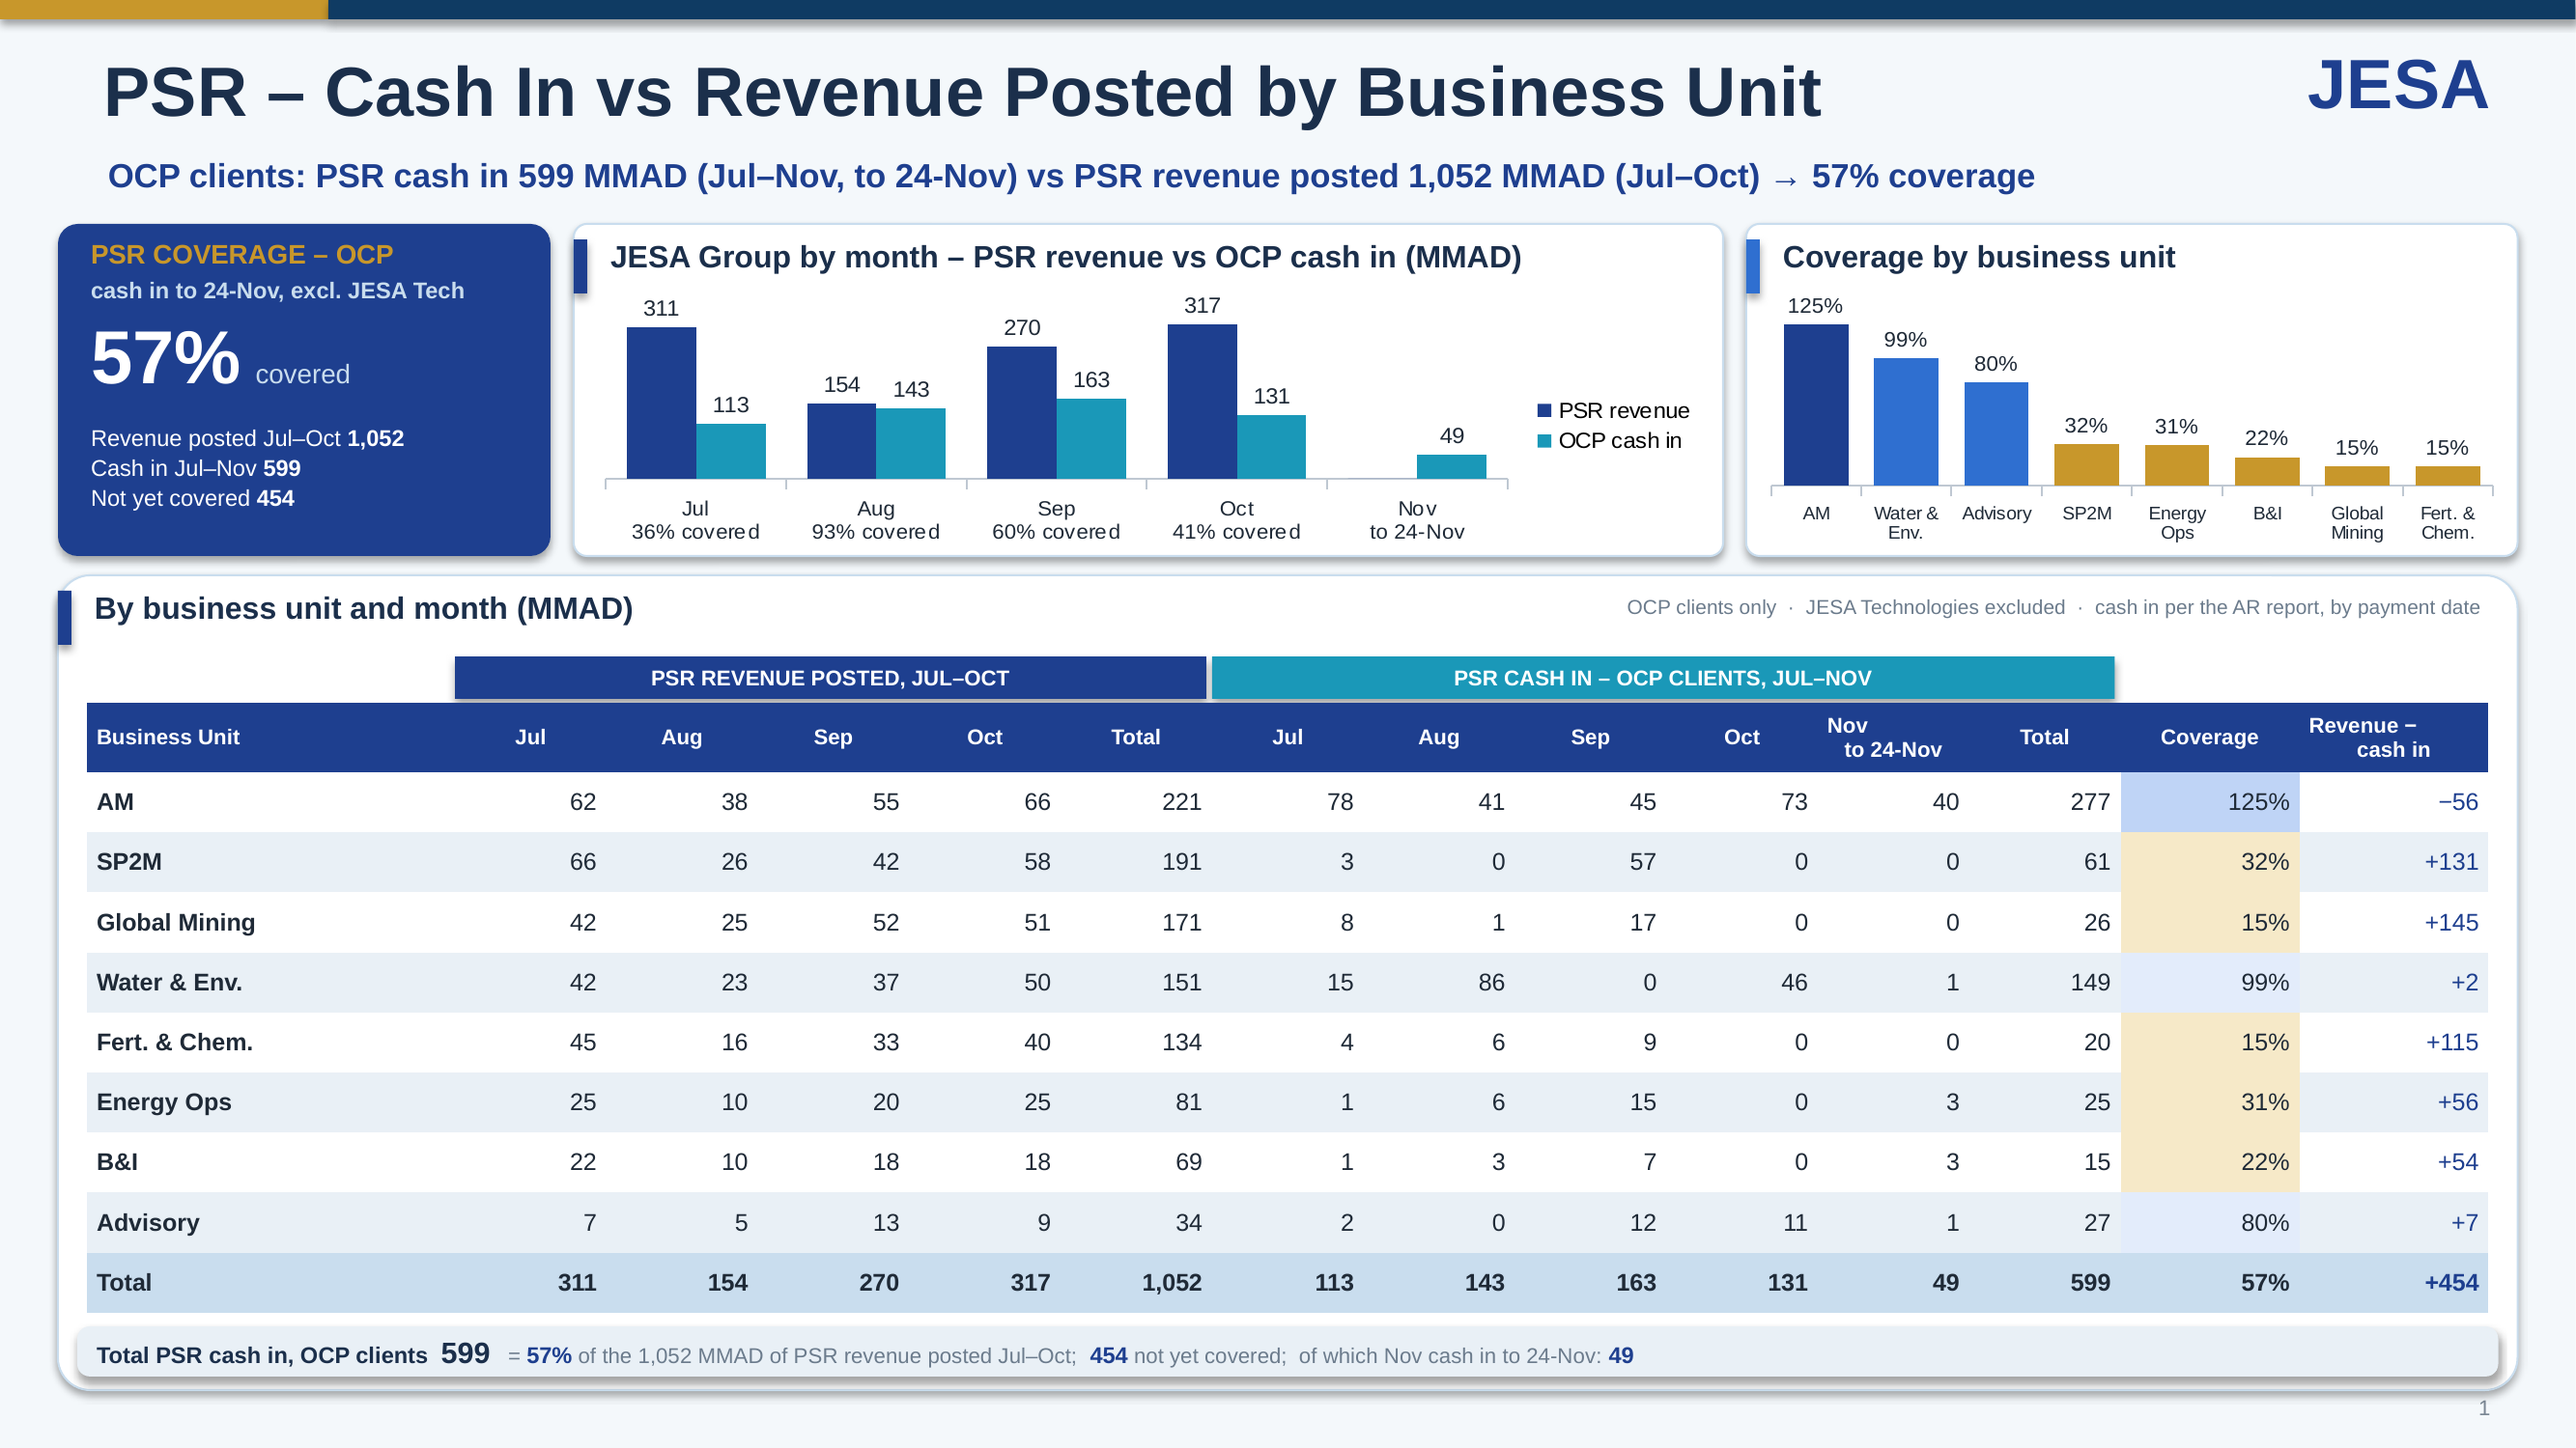
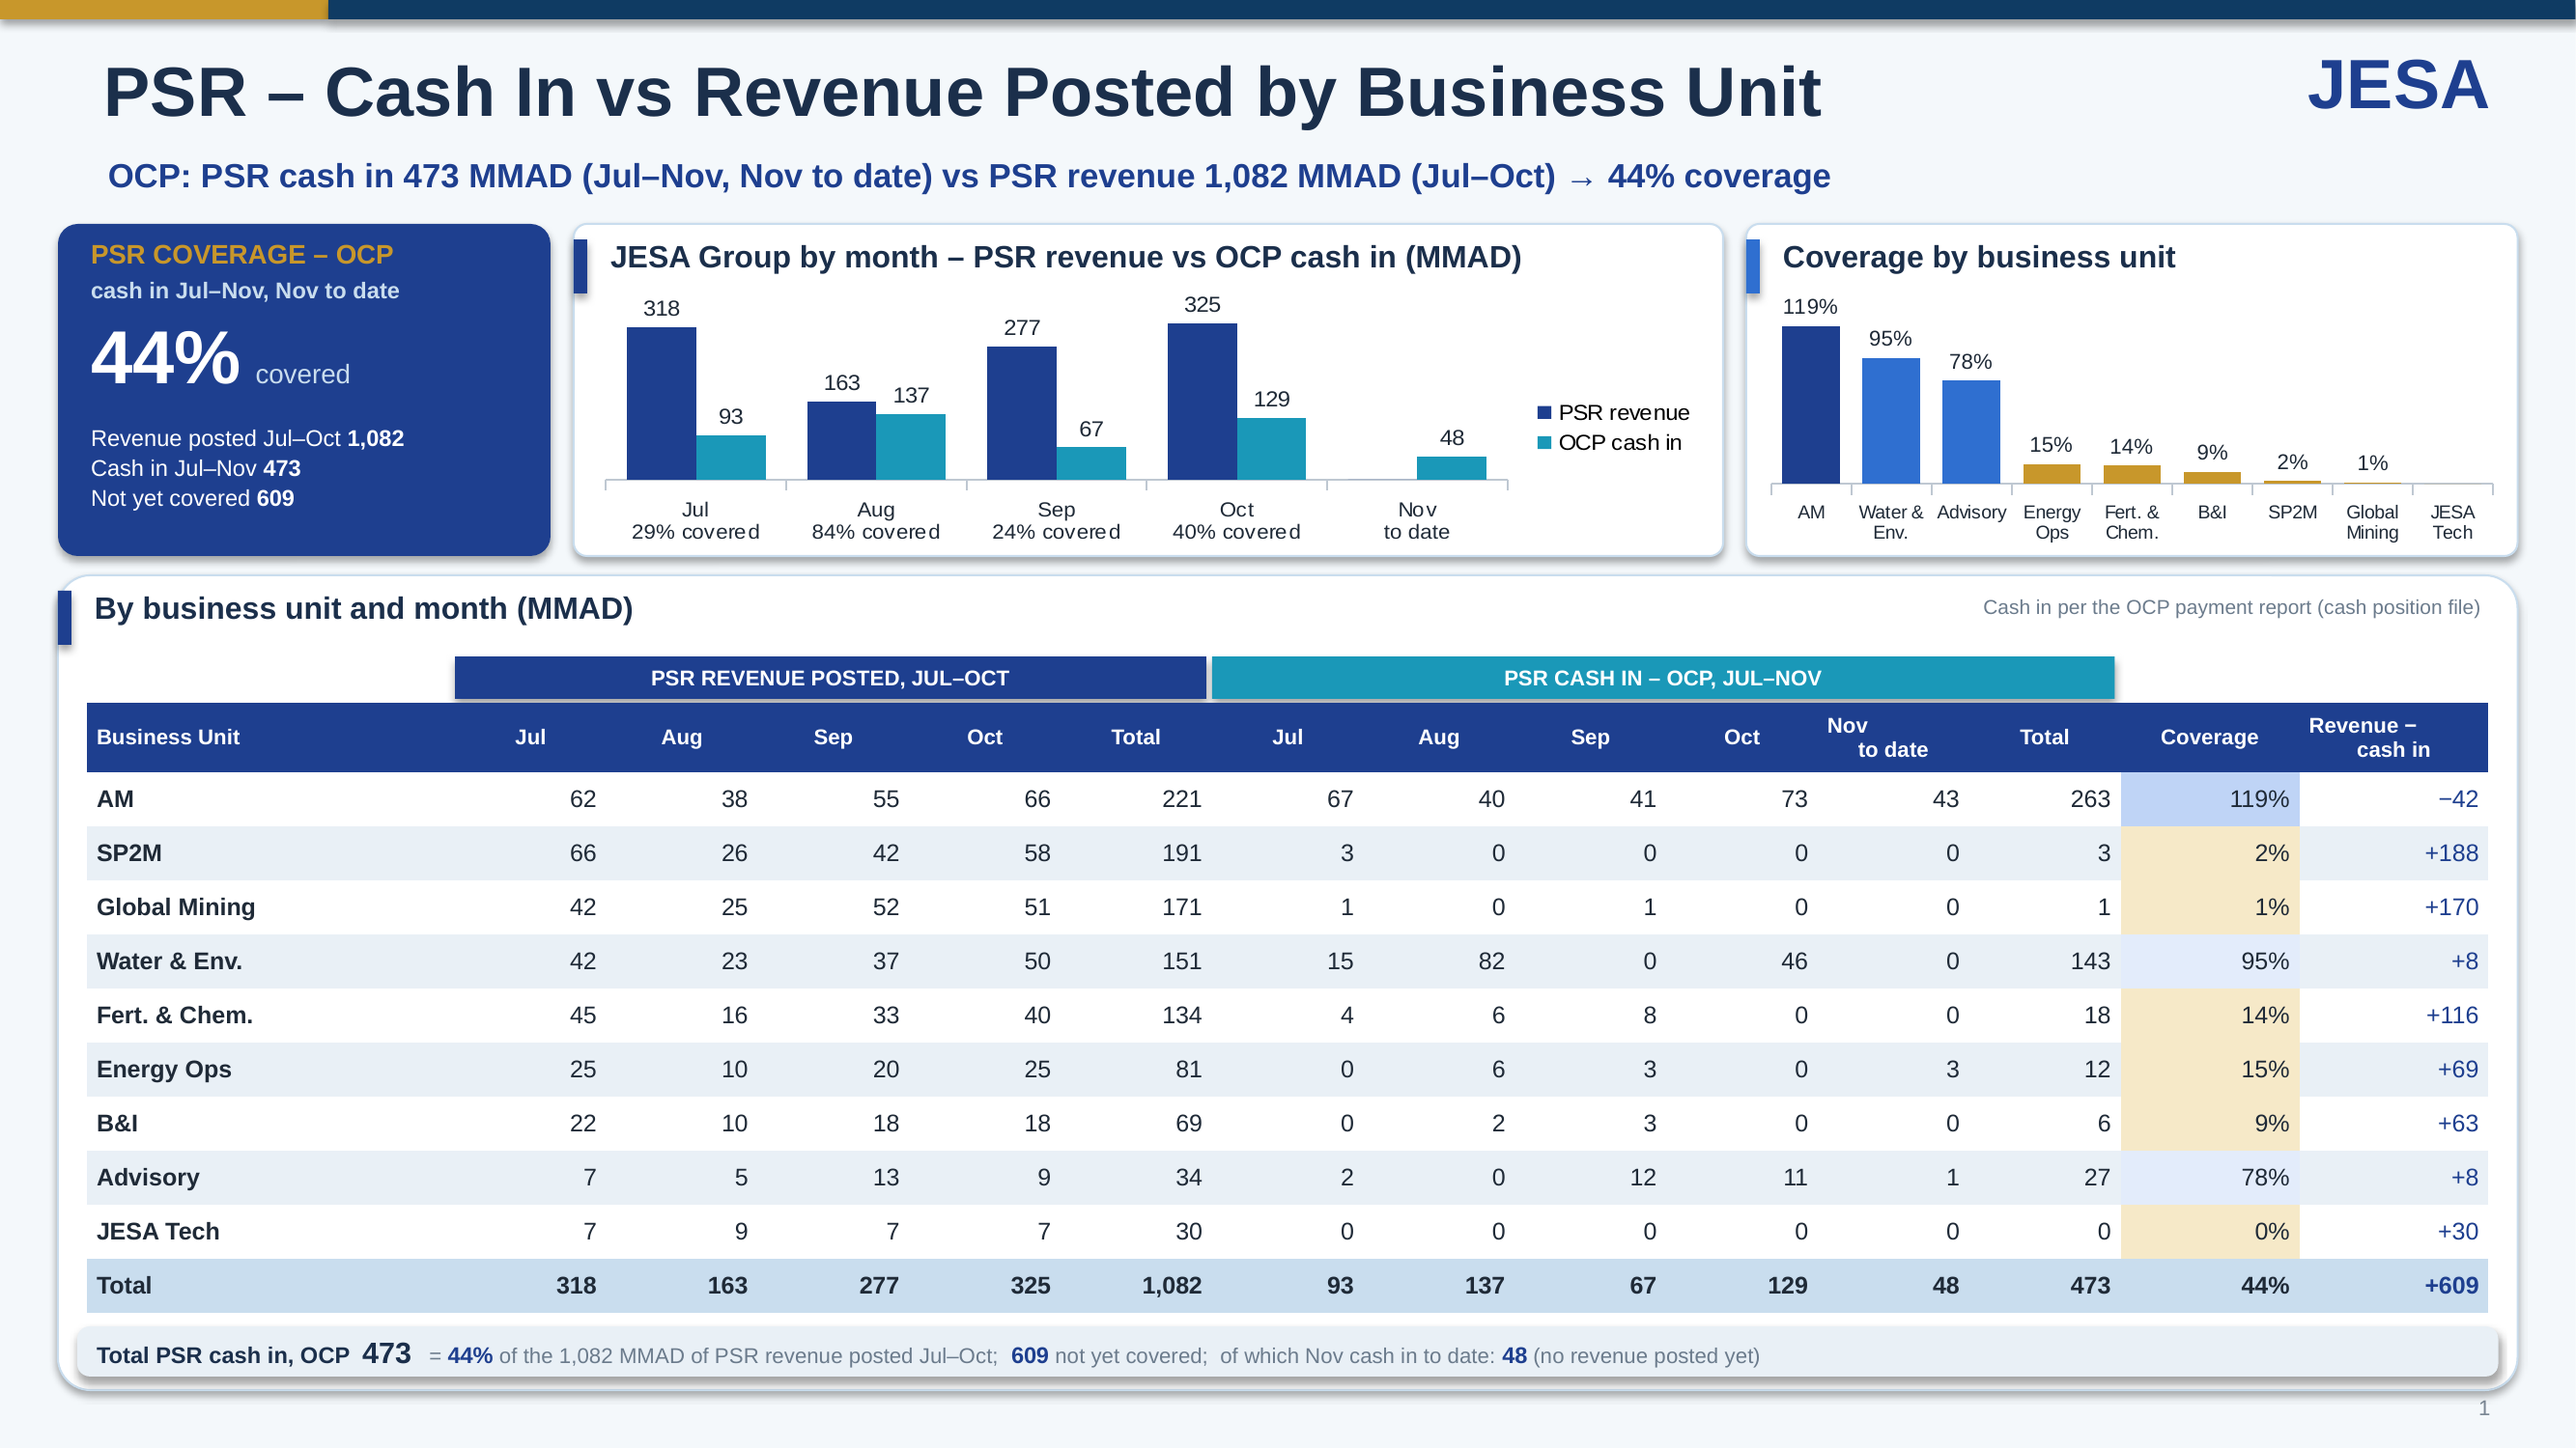
PSR coverage slide (OCP): cash in per the cash position file, JESA Technologies included
Claude-Session: https://claude.ai/code/session_01GRGYp2p9fdXmxQMcLgyM1e

diff --git a/weekly-ar-cash-deck/build_deck.py b/weekly-ar-cash-deck/build_deck.py
@@ -1700,9 +1700,9 @@ def build(data, meta, out):
             _ra = sum((pcat.get(k) or {}).get("amount") or 0 for k in ("refusing", "at_risk")); _rx = sum((pcat.get(k) or {}).get("amount_excl") or 0 for k in ("refusing", "at_risk"))
             total_strip(bxb, by2, bw_, bh2, "Refusing + at risk", f1(_ra), [("= ", {}), B(f1(_rx), JB), (" in the critical invoices + ", {}), B(f1(_ra - _rx), JB), (" under factoring or Tier 3", {})])
 
-    # ------------------------------------------------------------------ 13c. PSR cash in vs revenue posted, OCP clients only, without JESA Technologies (stand-alone, cash risks theme)
+    # ------------------------------------------------------------------ 13c. PSR cash in (OCP payment report, cash position file) vs revenue posted, all BUs (stand-alone, cash risks theme)
     D.section = "psr_ocp"
-    pco = [r for r in data.get("PSR_COVERAGE", []) if r.get("bu") != "JESA Technologies"]
+    pco = list(data.get("PSR_COVERAGE", []))
     if api and pco:
         def _mm(m): return dt.date.fromisoformat(str(m)[:7] + "-01").strftime("%b")
         pv = {(r["bu"], str(r["month"])[:7]): r for r in pco}; pm = sorted({k[1] for k in pv})
@@ -1710,18 +1710,26 @@ def build(data, meta, out):
         p_fc = [m for m in pm if m not in p_act and any(r["revenue_basis"] == "RFQ1" for (b, mm), r in pv.items() if mm == m)]
         p_rev = p_act + p_fc; p_open = [m for m in pm if m not in p_rev]   # month in progress: cash in to date, no revenue posted yet
         def prv(b, ms): return sum(((pv.get((b, m)) or {}).get("revenue") or 0) for m in ms)
-        def pci(b, ms): return sum(((pv.get((b, m)) or {}).get("cash_in") or 0) - ((pv.get((b, m)) or {}).get("cash_in_nonocp") or 0) for m in ms)   # OCP clients only
+        # cash in: PSR collections per the OCP payment report, as carried in the cash position file (OCP only by construction); the AR
+        # report is the fallback, without the lines flagged non-OCP
+        coo_ = {r["bu"]: r for r in data.get("CASH_PSR_BU", [])}
+        ckey = {m: k for m, k in zip(p_act, ("jul", "aug", "sep", "oct_actual"))}
+        for m in pm: ckey.setdefault(m, "oct_ongoing" if (p_act and m > p_act[-1]) else None)
+        use_coo = bool(coo_) and len(p_act) <= 4
+        def pci(b, ms):
+            if use_coo: return sum(((coo_.get(b) or {}).get(ckey[m]) or 0) for m in ms if ckey.get(m))
+            return sum(((pv.get((b, m)) or {}).get("cash_in") or 0) - ((pv.get((b, m)) or {}).get("cash_in_nonocp") or 0) for m in ms)
         pb = sorted({r["bu"] for r in pco}, key=lambda b: -prv(b, p_rev))
         PR = sum(prv(b, p_rev) for b in pb); PC = sum(pci(b, pm) for b in pb); PCo = sum(pci(b, p_open) for b in pb)
         def pct_(c_, r_): return (c_ / r_ * 100) if r_ and r_ > 0.05 else None
-        rspan = f"{_mm(p_rev[0])}–{_mm(p_rev[-1])}"; cspan = f"{_mm(pm[0])}–{_mm(pm[-1])}"; to_ = f"to {cur_s}"
+        rspan = f"{_mm(p_rev[0])}–{_mm(p_rev[-1])}"; cspan = f"{_mm(pm[0])}–{_mm(pm[-1])}"; to_ = "to date" if use_coo else f"to {cur_s}"
         s = D.slide("PSR – Cash In vs Revenue Posted by Business Unit")
-        tb(s, 0.52, 0.78, 12.3, 0.35, f"OCP clients: PSR cash in {f0(PC)} MMAD ({cspan}, {to_}) vs PSR revenue posted {f0(PR)} MMAD ({rspan}) → {pct_(PC, PR):.0f}% coverage", size=12.5, bold=True, color=JB)
+        tb(s, 0.52, 0.78, 12.3, 0.35, f"OCP: PSR cash in {f0(PC)} MMAD ({cspan}, {_mm(pm[-1])} {to_}) vs PSR revenue {f0(PR)} MMAD ({rspan}" + (f", {_mm(p_fc[0])} per RFQ1" if p_fc else "") + f") → {pct_(PC, PR):.0f}% coverage", size=12.5, bold=True, color=JB)
         ty, th = 1.16, 1.72
         # ---- headline box
         rect(s, 0.3, ty, 2.55, th, JB, shape=MSO_SHAPE.ROUNDED_RECTANGLE, radius=0.06)
         tb(s, 0.43, ty + 0.05, 2.35, 0.22, "PSR COVERAGE – OCP", size=10, bold=True, color=JGD)
-        tb(s, 0.43, ty + 0.25, 2.35, 0.2, f"cash in {to_}, excl. JESA Tech", size=8.5, bold=True, color=LBLUE)
+        tb(s, 0.43, ty + 0.25, 2.35, 0.2, f"cash in {cspan}, {_mm(pm[-1])} {to_}", size=8.5, bold=True, color=LBLUE)
         tb(s, 0.43, ty + 0.42, 2.35, 0.54, [[(f"{pct_(PC, PR):.0f}%", {"size": 28, "bold": True, "color": WHITE}), ("  covered", {"size": 10, "color": LBLUE})]])
         tb(s, 0.43, ty + 1.0, 2.35, 0.7, [[(f"Revenue posted {rspan} ", {}), (f0(PR), {"bold": True})], [(f"Cash in {cspan} ", {}), (f0(PC), {"bold": True})], [("Not yet covered ", {}), (f0(PR - PC), {"bold": True})]], size=8.5, color=WHITE, line_spacing=1.1)
         # ---- by month
@@ -1742,7 +1750,7 @@ def build(data, meta, out):
         # ---- table by BU and month
         y1 = ty + th + 0.1; h1 = SH - 0.3 - y1
         panel(0.3, y1, SW - 0.6, h1, "By business unit and month (MMAD)", None, JB)
-        tb(s, SW - 0.3 - 5.2, y1 + 0.08, 5.05, 0.22, "OCP clients only  ·  JESA Technologies excluded  ·  cash in per the AR report, by payment date", size=7.5, color=SLATE, align=PP_ALIGN.RIGHT)
+        tb(s, SW - 0.3 - 5.2, y1 + 0.08, 5.05, 0.22, ("Cash in per the OCP payment report (cash position file)" if use_coo else "OCP clients only  ·  cash in per the AR report, by payment date"), size=7.5, color=SLATE, align=PP_ALIGN.RIGHT)
         nr_, nc_ = len(p_rev) + 1, len(pm) + 1
         hdr = ["Business Unit"] + [_mm(m) + (" RFQ1" if m in p_fc else "") for m in p_rev] + ["Total"] + [_mm(m) + (f"\n{to_}" if m in p_open else "") for m in pm] + ["Total", "Coverage", "Revenue −\ncash in"]
         colw = [1.75] + [0.72] * (nr_ + nc_) + [0.85, 0.9]; tx_, tw_ = 0.45, SW - 0.9
@@ -1757,9 +1765,9 @@ def build(data, meta, out):
         gy = y1 + 0.42; xw = [tw_ * w_ / sum(colw) for w_ in colw]
         x_rev = tx_ + xw[0]; w_rev = sum(xw[1:1 + nr_]); x_ca = x_rev + w_rev; w_ca = sum(xw[1 + nr_:1 + nr_ + nc_])
         rect(s, x_rev, gy, w_rev - 0.03, 0.22, JB); tb(s, x_rev, gy, w_rev - 0.03, 0.22, f"PSR REVENUE POSTED, {rspan.upper()}", size=8, bold=True, color=WHITE, align=PP_ALIGN.CENTER, anchor=MSO_ANCHOR.MIDDLE)
-        rect(s, x_ca, gy, w_ca - 0.03, 0.22, JCY); tb(s, x_ca, gy, w_ca - 0.03, 0.22, f"PSR CASH IN – OCP CLIENTS, {cspan.upper()}", size=8, bold=True, color=WHITE, align=PP_ALIGN.CENTER, anchor=MSO_ANCHOR.MIDDLE)
+        rect(s, x_ca, gy, w_ca - 0.03, 0.22, JCY); tb(s, x_ca, gy, w_ca - 0.03, 0.22, f"PSR CASH IN – OCP, {cspan.upper()}", size=8, bold=True, color=WHITE, align=PP_ALIGN.CENTER, anchor=MSO_ANCHOR.MIDDLE)
         table(s, tx_, gy + 0.24, tw_, hdr, rows, col_w=colw, font_size=9, header_size=8, row_h=min(0.34, (h1 - 0.42 - 0.24 - 0.36 - ST - 0.1) / len(rows)), header_h=0.36, colors=colors, fills=fills, total_last=True, first_col_bold=True, header_fill=JB)
-        total_strip(0.3, y1, SW - 0.6, h1, "Total PSR cash in, OCP clients", f0(PC), [("= ", {}), B(f"{pct_(PC, PR):.0f}%", JB), (f" of the {f0(PR)} MMAD of PSR revenue posted {rspan};  ", {}), B(f0(PR - PC), JB), (" not yet covered", {})] + ([(f";  of which {_mm(p_open[0])} cash in {to_}: ", {}), B(f0(PCo), JB)] if p_open else []))
+        total_strip(0.3, y1, SW - 0.6, h1, "Total PSR cash in, OCP", f0(PC), [("= ", {}), B(f"{pct_(PC, PR):.0f}%", JB), (f" of the {f0(PR)} MMAD of PSR revenue posted {rspan};  ", {}), B(f0(PR - PC), JB), (" not yet covered", {})] + ([(f";  of which {_mm(p_open[0])} cash in {to_}: ", {}), B(f0(PCo), JB), (" (no revenue posted yet)", {})] if p_open else []))
 
     D.section = "bu"
     det = {}

diff --git a/.claude/skills/weekly-ar-deck/SKILL.md b/.claude/skills/weekly-ar-deck/SKILL.md
@@ -283,15 +283,20 @@ deck after the LC slide, only when asked). Content:
   reviewer's penalties file is received; then add
   `"schedule": [{"due": "2026-12", "project": MMAD, "non_project": MMAD}, ...]` to the penalties JSON.
 
-## 7d-bis. PSR cash in vs revenue posted, OCP clients only (stand-alone, on request)
+## 7d-bis. PSR cash in vs revenue posted, OCP (stand-alone, on request)
 
 `build_deck.py --only psr_ocp --out output/JESA_PSR_Coverage_OCP_<week>.pptx` (reviewer, 27-Nov-2026): same content as
-the coverage slide of the deck, in the cash risks theme, with **non-OCP cash in excluded** (Client 1 of the AR
-report), **JESA Technologies excluded**, and the cash in counted up to the AR date including the month in progress.
-Revenue is the "Revenue — PSR" line of the cash flow workbook, which is **not split by client**: say so when sending,
-because BUs with non-OCP clients (Global Mining above all) then show a coverage that is too low; ask for the PSR
-revenue of OCP clients only, or for the non-OCP revenue to deduct. The month in progress has no posted revenue until
-the RFQ1 figures are given (`inputs/rfq1/psr_rfq1_<YYYY-MM>.json`).
+the coverage slide of the deck, in the cash risks theme, for OCP only.
+
+- **Cash in = PSR collections of the cash position file** (COO file, per the OCP payment report; tab `CASH_PSR_BU`),
+  about 470 MMAD Jul–Nov on 27-Nov-2026. Do not use the AR report here: its "OCP" (Client 1 not flagged NON OCP) gave
+  about 600 MMAD, 130 MMAD more (SP2M, Global Mining, AM, Energy Operations), and the reviewer rejected that figure.
+- **All BUs, JESA Technologies included** (the reviewer first asked to exclude it, then to put it back).
+- Cash in counted up to date, month in progress included. Revenue = "Revenue — PSR" of the cash flow workbook (closed
+  months) + **RFQ1 for the month in progress**: the reviewer wants it, the figures by BU must be asked for and saved as
+  `inputs/rfq1/psr_rfq1_<YYYY-MM>.json`; until then the month has cash in and no revenue, and the slide says so.
+- Revenue is not split by client in the cash flow workbook: BUs with non-OCP clients (Global Mining, JESA
+  Technologies) show a low coverage for that reason; say so when sending.
 
 ## 7e. Late-payment penalties estimate (AP team, "DDP")
 
